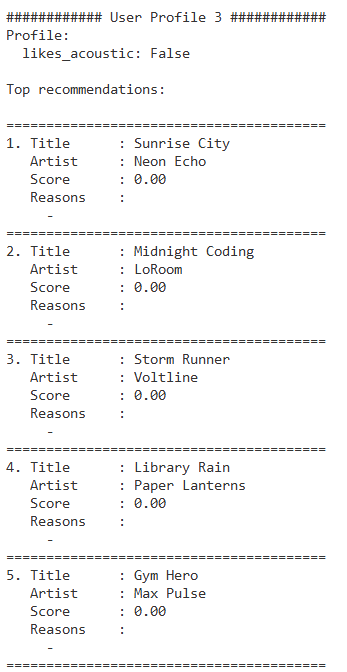
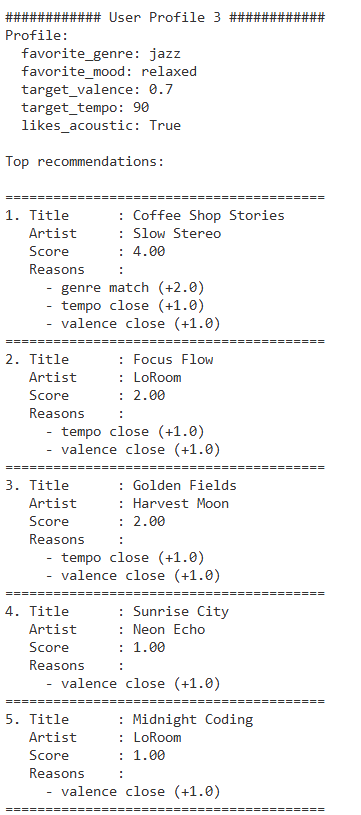
Update README and main.py with detailed user profiles and experiment results

Changed region(s): [[0.0, 0.0, 0.951, 1.0], [0.0288, 0.3438, 0.0576, 0.375]]

diff --git a/src/main.py b/src/main.py
@@ -33,10 +33,13 @@ def main() -> None:
             "target_acousticness": 0.95,
             "likes_acoustic": True
         },
-        # 3. All fields missing or None (minimal info)
+        # 3. Diverse: prefers high valence, moderate tempo, and relaxed mood
         {
-            # No genre, mood, or targets
-            "likes_acoustic": False
+            "favorite_genre": "jazz",
+            "favorite_mood": "relaxed",
+            "target_valence": 0.7,
+            "target_tempo": 90,
+            "likes_acoustic": True
         }
     ]
 

diff --git a/README.md b/README.md
@@ -87,7 +87,7 @@ Contradictory: likes acoustic but wants high energy and danceability
 ![User_Profile_2 Output](User_Profile_2.png)
 
 **User Profile 3**  
-Minimal info: all fields missing or None
+Prefers jazz, relaxed mood, high valence, moderate tempo, and acoustic music
 
 ![User_Profile_3 Output](User_Profile_3.png)
 
@@ -130,11 +130,49 @@ You can add more tests in `tests/test_recommender.py`.
 
 ## Experiments You Tried
 
-Use this section to document the experiments you ran. For example:
 
-- What happened when you changed the weight on genre from 2.0 to 0.5
-- What happened when you added tempo or valence to the score
-- How did your system behave for different types of users
+### What happened when you changed the weight on genre from 2.0 to 0.5
+When I set the genre match score to 0.5 instead of 2.0, I realized there was no change for the first user because the feature it considered for the score was energy similarity. For the second user, the top recommendations were the same songs but in a different order. For the third user, songs were the same in the same order, but the score was lower for the first song.
+
+### What happened when you added tempo or valence to the score
+The first user got the same recommendations because the feature that mattered was energy similarity. The second one too. The third user got the same recommendations but with higher scores.
+
+
+### How did your system behave for different types of users?
+
+**User Profile 1** (favorite_genre: k-pop, favorite_mood: melancholy, target_energy: 1.5, likes_acoustic: True)
+
+Top recommendations:
+
+1. Steel Skies (Iron Brigade) — Score: 0.49 — energy similarity (+0.49)
+2. Quantum Leap (Future Logic) — Score: 0.47 — energy similarity (+0.47)
+3. Gym Hero (Max Pulse) — Score: 0.43 — energy similarity (+0.43)
+4. Fiesta Nights (La Rumba) — Score: 0.42 — energy similarity (+0.42)
+5. Storm Runner (Voltline) — Score: 0.41 — energy similarity (+0.41)
+
+**User Profile 2** (favorite_genre: jazz, favorite_mood: relaxed, target_energy: 0.95, target_danceability: 0.95, target_acousticness: 0.95, likes_acoustic: True)
+
+Top recommendations:
+
+1. Coffee Shop Stories (Slow Stereo) — Score: 4.42 — genre match (+2.0), mood match (+1.0), acousticness close (+1.0), energy similarity (+0.42)
+2. Gym Hero (Max Pulse) — Score: 1.98 — danceability close (+1.0), energy similarity (+0.98)
+3. Quantum Leap (Future Logic) — Score: 1.98 — danceability close (+1.0), energy similarity (+0.98)
+4. Fiesta Nights (La Rumba) — Score: 1.97 — danceability close (+1.0), energy similarity (+0.97)
+5. Pixel Parade (Bitcrush) — Score: 1.93 — danceability close (+1.0), energy similarity (+0.93)
+
+**User Profile 3** (favorite_genre: jazz, favorite_mood: relaxed, target_valence: 0.7, target_tempo: 90, likes_acoustic: True)
+
+Top recommendations:
+
+1. Coffee Shop Stories (Slow Stereo) — Score: 5.00 — genre match (+2.0), mood match (+1.0), tempo close (+1.0), valence close (+1.0)
+2. Focus Flow (LoRoom) — Score: 2.00 — tempo close (+1.0), valence close (+1.0)
+3. Golden Fields (Harvest Moon) — Score: 2.00 — tempo close (+1.0), valence close (+1.0)
+4. Sunrise City (Neon Echo) — Score: 1.00 — valence close (+1.0)
+5. Midnight Coding (LoRoom) — Score: 1.00 — valence close (+1.0)
+
+
+### What happened when you disabled the mood check
+When I disabled the mood check, songs that matched the user's favorite mood lost their bonus point. For User Profile 2 and 3, "Coffee Shop Stories" dropped in score but stayed at the top, and the total scores for all users were lower. The order of the top 5 changed for User Profile 3, and the reasons for each recommendation no longer included mood match. The system relied more on genre, tempo, valence, and energy similarity.
 
 ---
 
